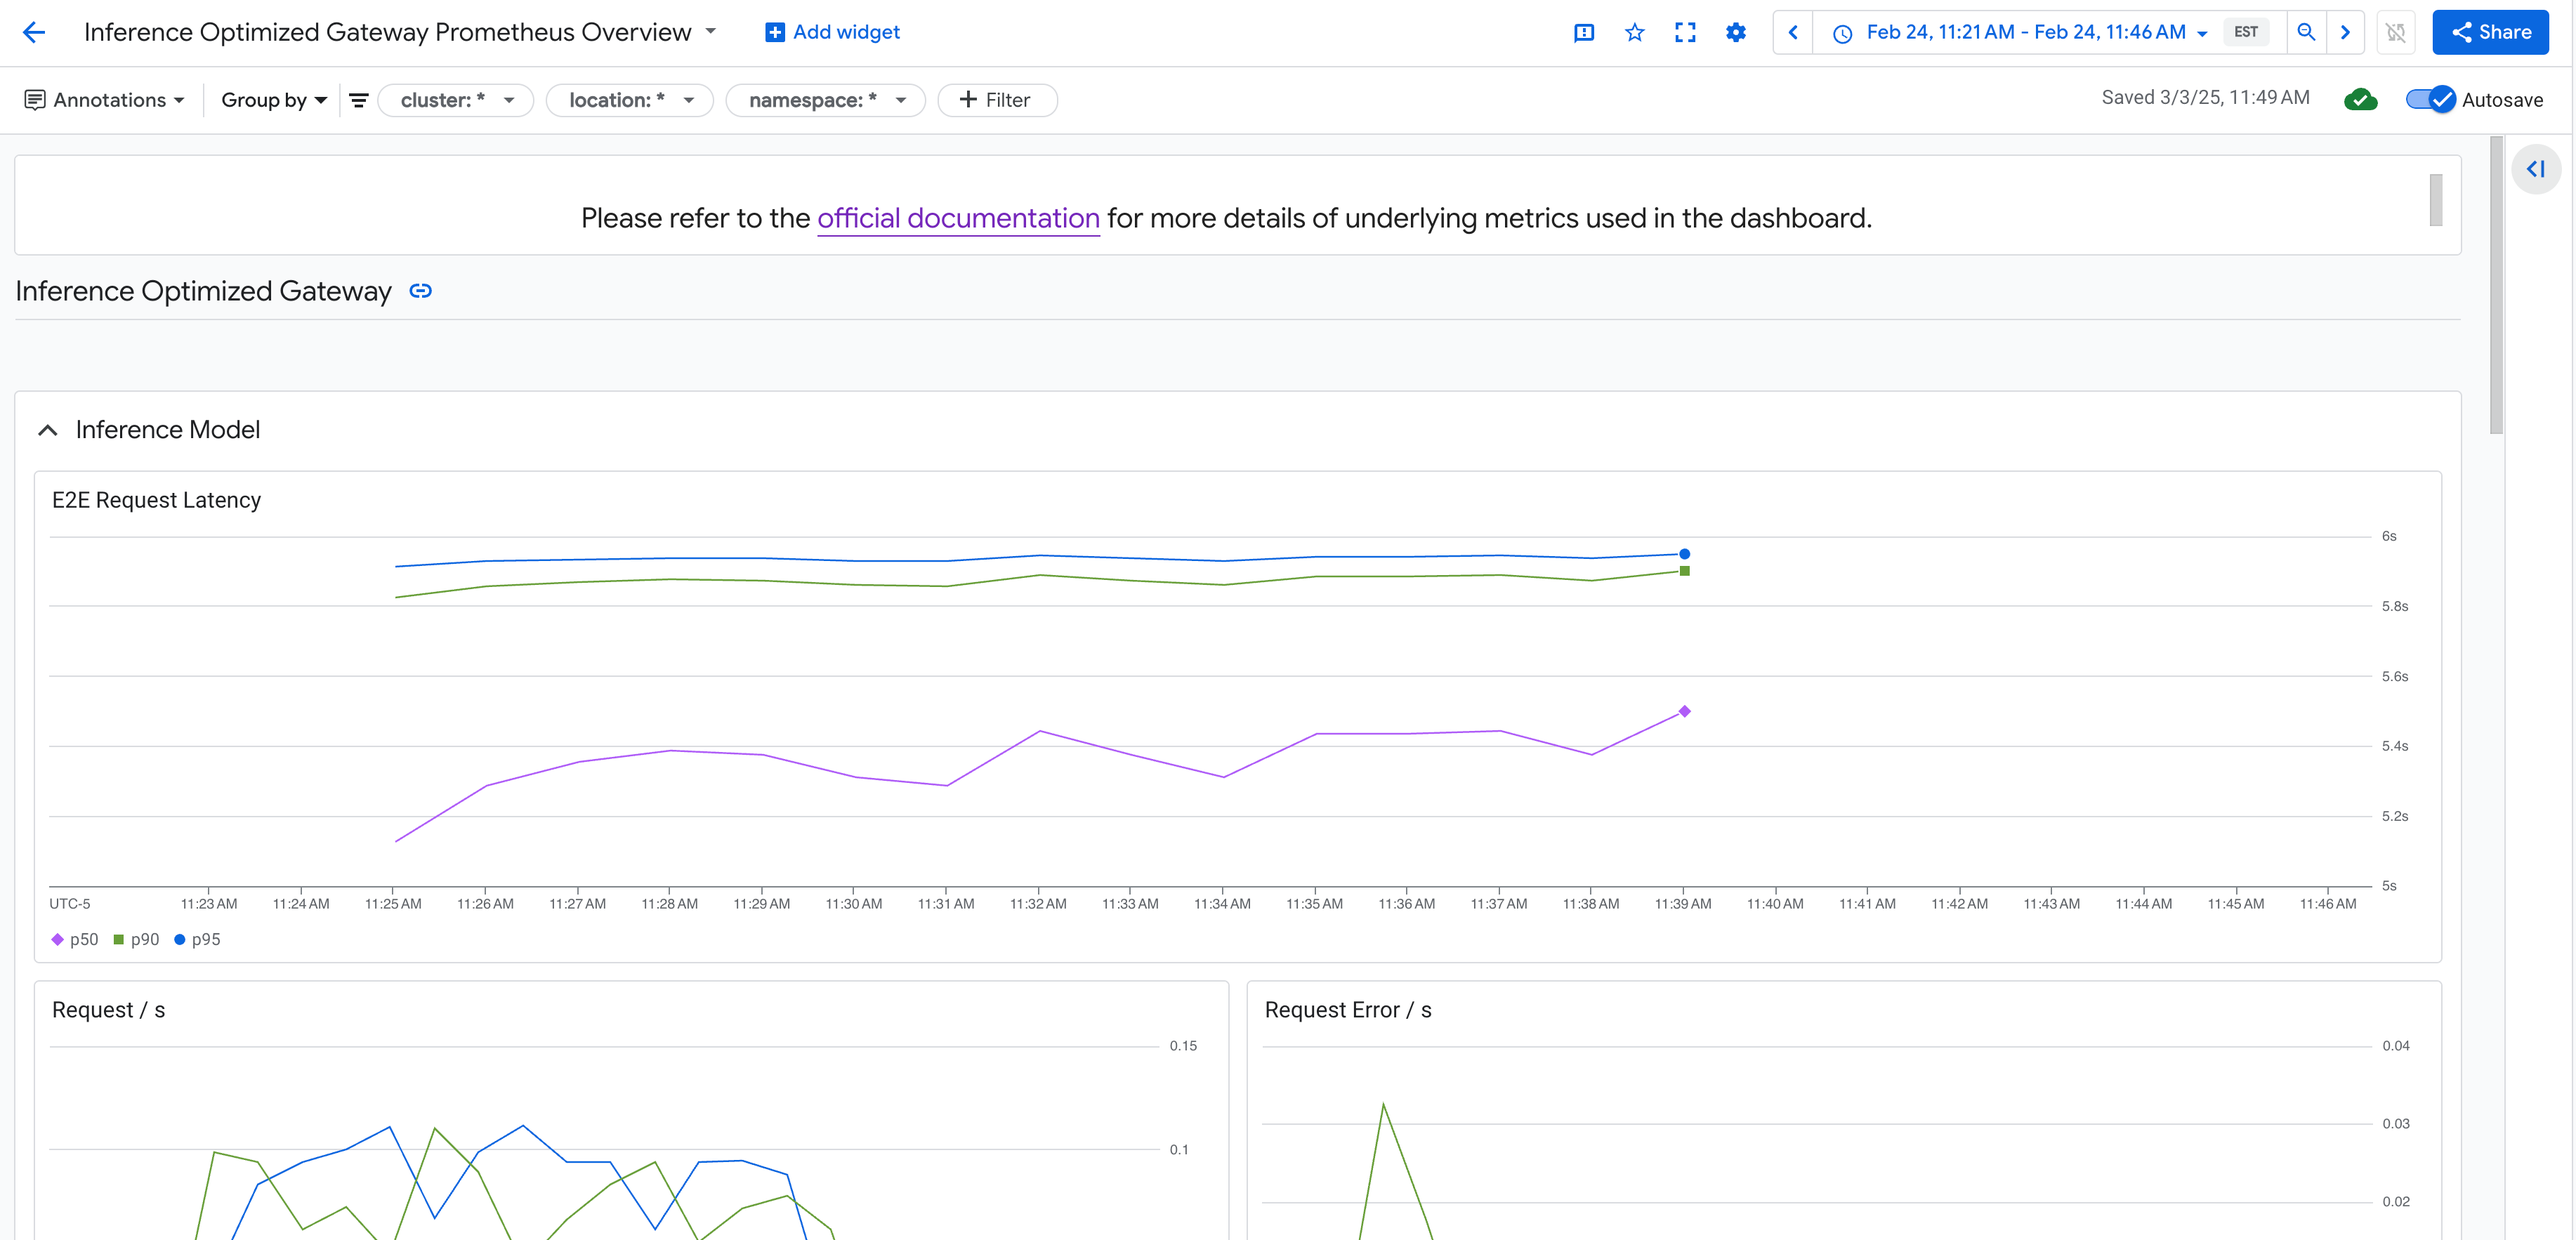
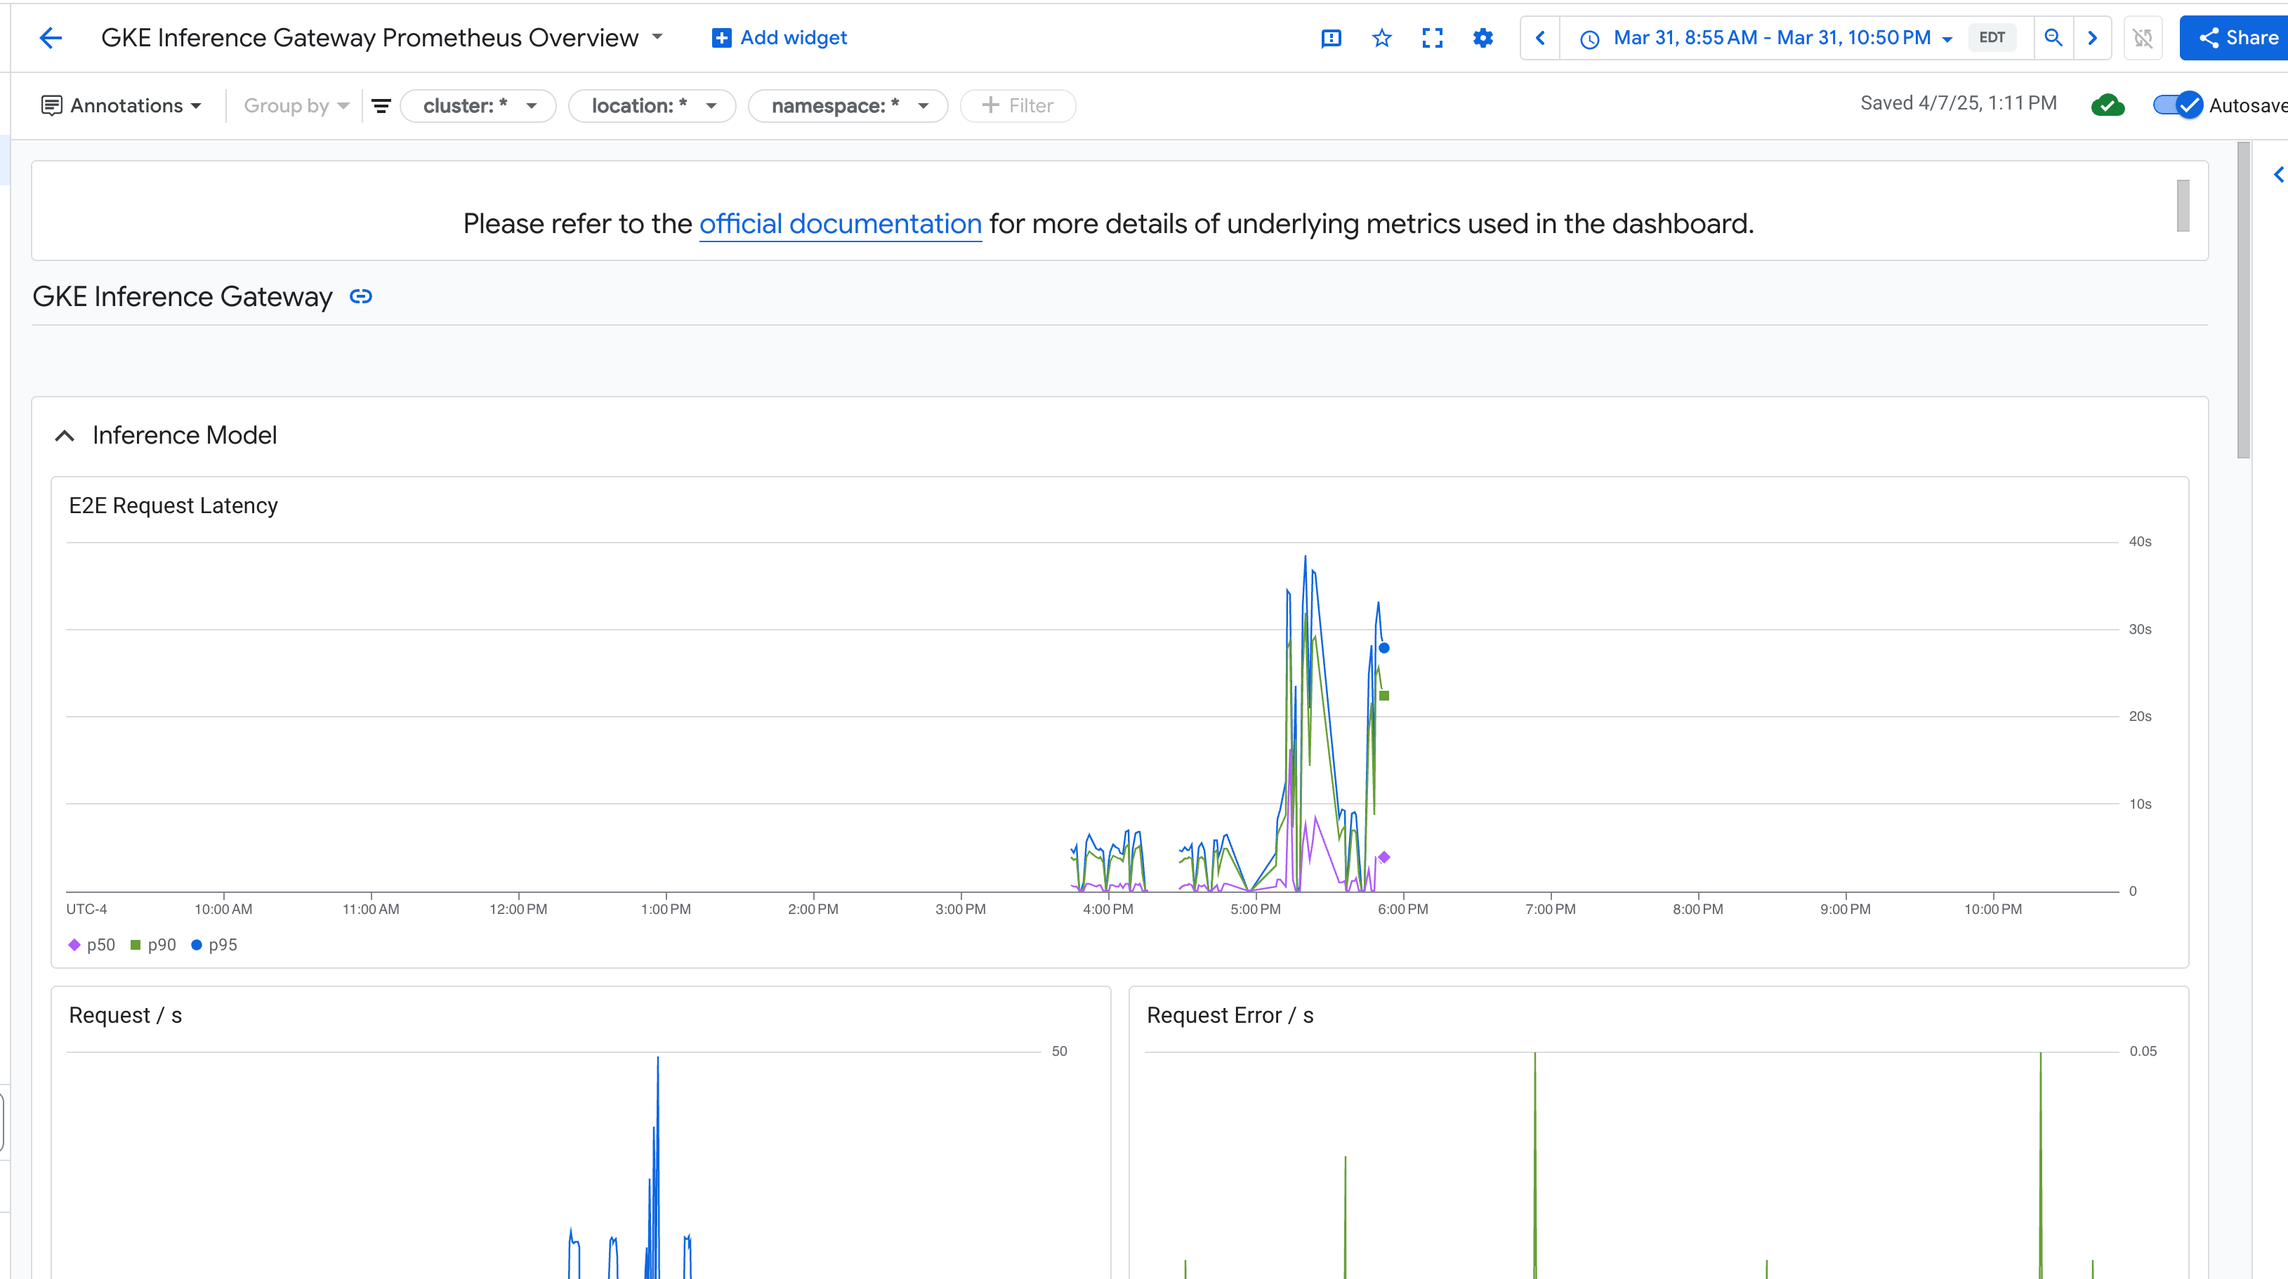
Rename inference optimized gateway to GKE Inference Gateway (#958)
The link to the exporter example page will be updated in a follow-up.

diff --git a/dashboards/gateway-api-inference-extension/README.md b/dashboards/gateway-api-inference-extension/README.md
@@ -1,10 +1,10 @@
-### Dashboards for Inference Optimized Gateway
+### Dashboards for GKE Inference Gateway
 
 #### Notes
 
 - This dashboard is based on prometheus metrics from [gateway-api-inference-extension](https://github.com/kubernetes-sigs/gateway-api-inference-extension).
 
-|Inference Optimized Gateway Prometheus Overview|
+|GKE Inference Gateway Prometheus Overview|
 |:------------------|
 |Filename: [inference-extension-prometheus.json](inference-extension-prometheus.json)|
-|This dashboard has charts displaying throughput, latency, cache usage, and other metrics for Inference Optimized Gateway.|
+|This dashboard has charts displaying throughput, latency, cache usage, and other metrics for GKE Inference Gateway.|
